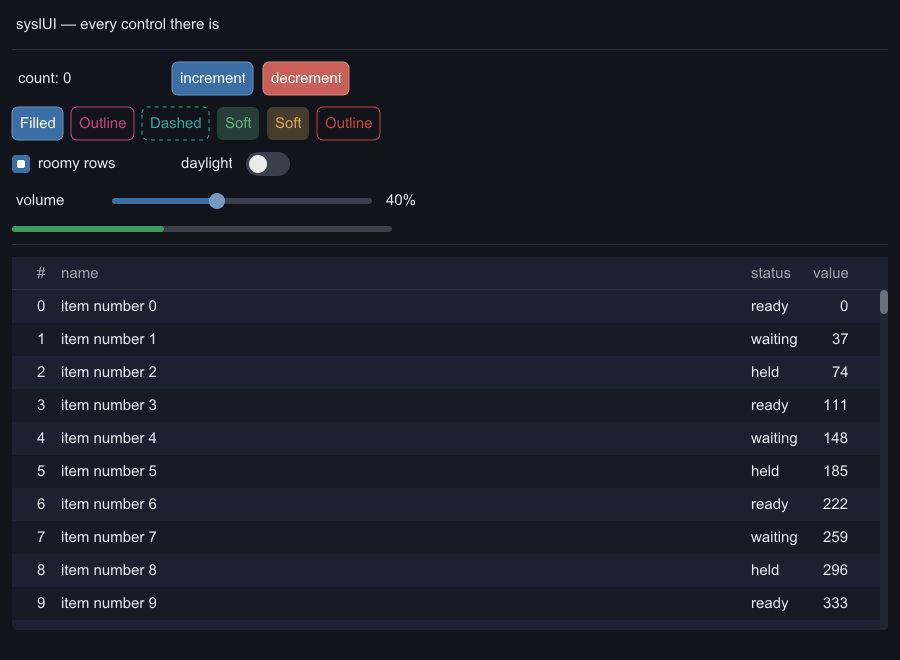
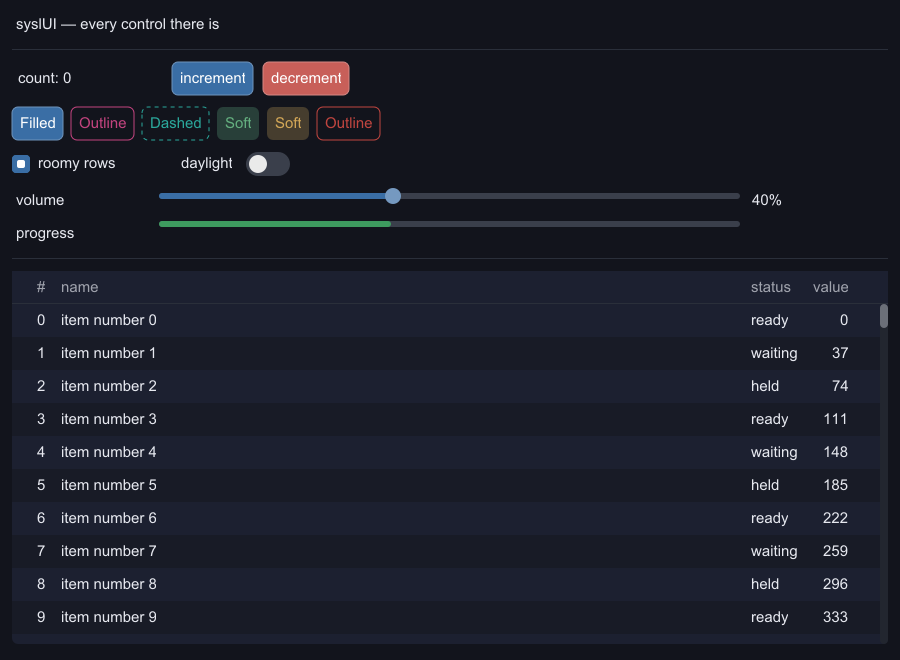
The two control lines are a grid, so they line up
"volume" and "progress" are different lengths, so as rows each control started
wherever its own label's text ended. On the grid the label takes four
twenty-fourths and the control sixteen, and both begin and end in the same
place -- which is the whole difference between the two containers, shown rather
than described.

diff --git a/README.md b/README.md
@@ -121,13 +121,14 @@ column(spacing = 12):
         switch(m.daylight, .Accent)
     ], 12)
 
-    row([
-        text("volume").padding(4).frame(90, 26),
-        slider(m.volume, 0, 100, 260),
-        text(s"${m.volume.read()}%").padding(4)
-    ], 10)
+    grid():
+        text("volume").padding(4).cell(4)
+        slider(m.volume, 0, 100, 260).cell(16)
+        text(s"${m.volume.read()}%").padding(4).cell(4)
 
-    row([progress(real(m.volume.read()) / 100.0, 380, .Success), spacer()], 0)
+        text("progress").padding(4).cell(4)
+        progress(real(m.volume.read()) / 100.0, 380, .Success).cell(16)
+        text("").cell(4)
 
     divider()
 
@@ -153,9 +154,10 @@ would be showing the animation and hiding the architecture.
 this was written. A chain of modifiers is how anything gets styled, so a chain that cannot be broken
 is a chain that has to fit on one line.
 
-**The progress bar sits in a `Row` with a spacer** because a `Column` gives every child the column's
-whole width — which is what the dividers and the panel want and not what a bar 380 wide wants. A
-`Row` honours what a child measured to, and the spacer takes the rest.
+**The volume and progress lines are a `grid`, not two `row`s**, and that is the difference between
+the two containers in one place: "volume" and "progress" are different lengths, so a row would have
+started each control wherever its own label's text ended. On the grid the label takes four
+twenty-fourths and the control sixteen, so both controls begin and end on the same columns.
 
 The whole tree is rebuilt on every signal write — deliberately the whole tree, so the number is the
 worst case rather than what rebuilding only what read the signal would buy later. The frame is drawn
